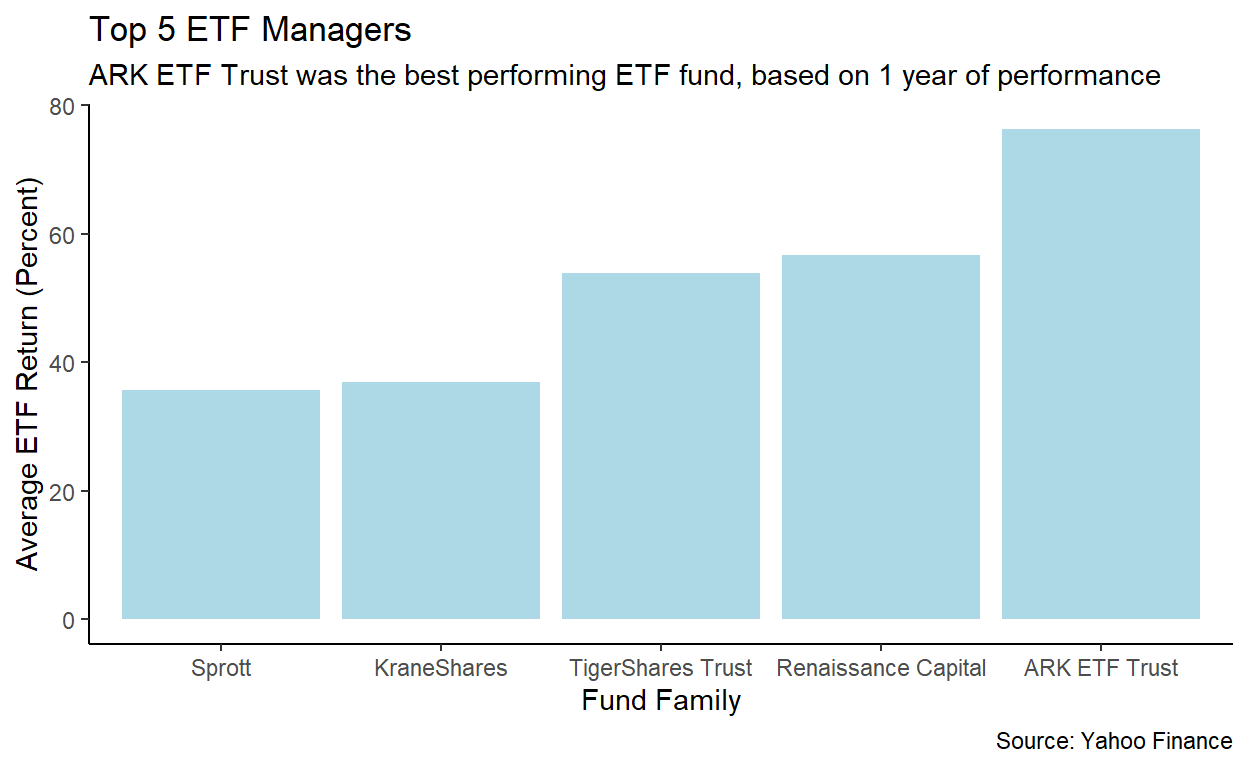
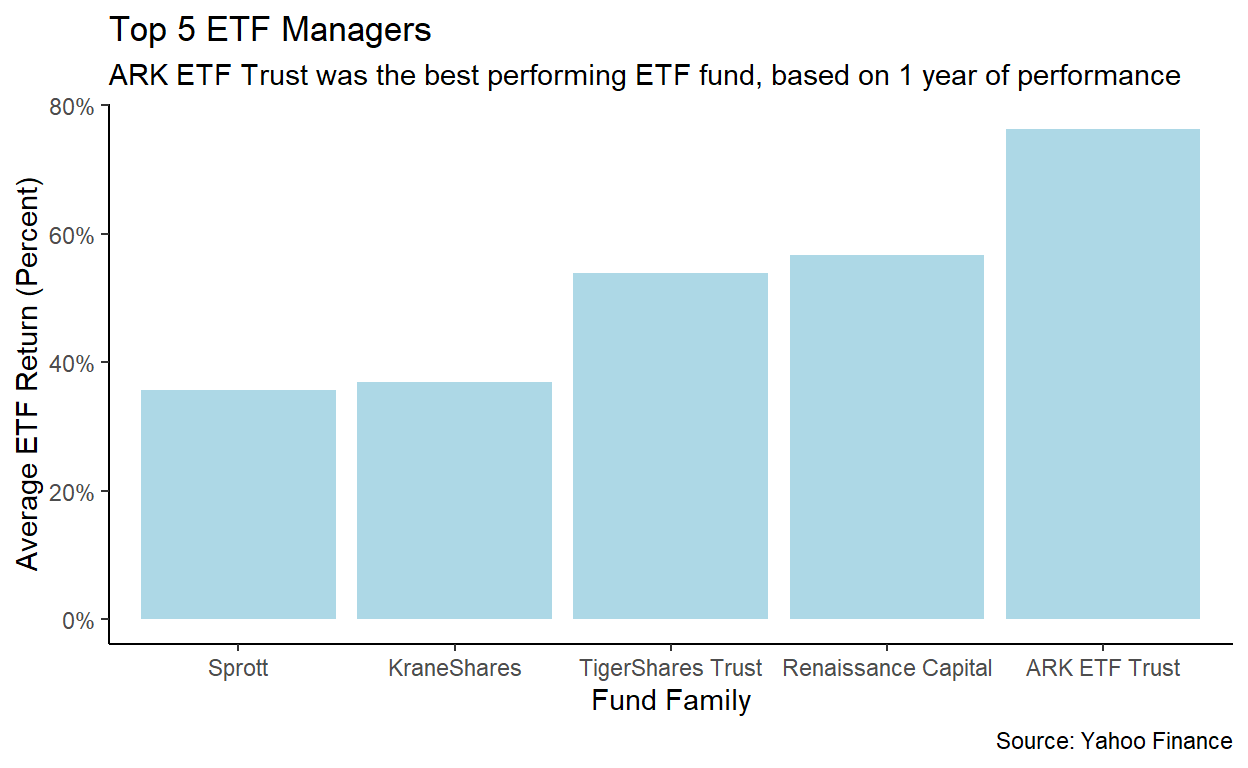
Added benchmark line to two graphs, explanation to most graphs, and added percentages to y-axis of first graph

diff --git a/docs/funds.html b/docs/funds.html
@@ -2093,12 +2093,15 @@ code span.wa { color: #5e5e5e; font-style: italic; } /* Warning */
 </div>
 
 <div class="d-article">
+<p>What ETF manager would provide the highest returns?</p>
 <div class="layout-chunk" data-layout="l-body">
 <p><img src="funds_files/figure-html5/unnamed-chunk-2-1.png" width="624" /></p>
 </div>
+<p>Additional Finding</p>
 <div class="layout-chunk" data-layout="l-body">
 <p><img src="funds_files/figure-html5/unnamed-chunk-3-1.png" width="624" /></p>
 </div>
+<p>A fund’s yield (the income generated to investors through interest and dividends) has a negative correlation with returns. This is understandable, as often times a company the fund is invested in would offer dividends to make up for the lack of returns.</p>
 <div class="layout-chunk" data-layout="l-body">
 
 </div>
@@ -2108,9 +2111,11 @@ code span.wa { color: #5e5e5e; font-style: italic; } /* Warning */
 <div class="layout-chunk" data-layout="l-body">
 <p><img src="funds_files/figure-html5/unnamed-chunk-6-1.png" width="624" /></p>
 </div>
+<p>In the shorterm many sectors were less than or near 0% returns. A few (most notably, the technology sector) surpassed the benchmark of the S&amp;P 500, which tracks the performance of the top 500 companies.</p>
 <div class="layout-chunk" data-layout="l-body">
 <p><img src="funds_files/figure-html5/unnamed-chunk-7-1.png" width="624" /></p>
 </div>
+<p>In the longterm most sectors had positive returns, with the exception being the Energy sector. However, compared to the average returns of the S&amp;P 500 (~10%), most sectors lagged behind with the exception being the technology sector. This shows that most ETFs often fail to meet the returns of the S&amp;P 500, and that it is often a good idea to research about the S&amp;P 500.</p>
 <div class="layout-chunk" data-layout="l-body">
 <p><img src="funds_files/figure-html5/unnamed-chunk-8-1.png" width="624" /></p>
 </div>
@@ -2120,6 +2125,8 @@ code span.wa { color: #5e5e5e; font-style: italic; } /* Warning */
 <div class="layout-chunk" data-layout="l-body">
 
 </div>
+<p>Overall, the investments that have best performed in the past year were growth focused investments in the technology sector. Due to the pandemic, there was immense growth in the technology sector during the past year as people moved to a digital environment. However, the technology sector still outperformed the rest of the sectors during the past 5 years.</p>
+<p>Historical returns do not guarantee future returns.</p>
 <div class="sourceCode" id="cb1"><pre class="sourceCode r distill-force-highlighting-css"><code class="sourceCode r"></code></pre></div>
 <!--radix_placeholder_article_footer-->
 <!--/radix_placeholder_article_footer-->
